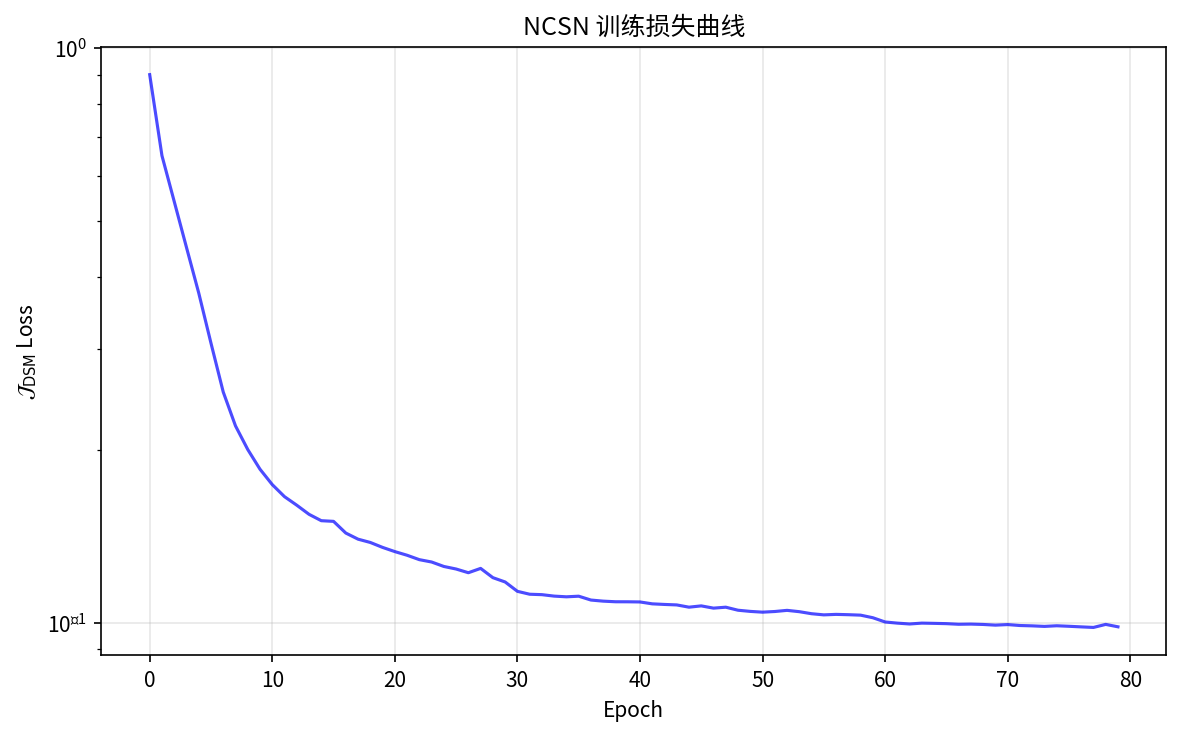
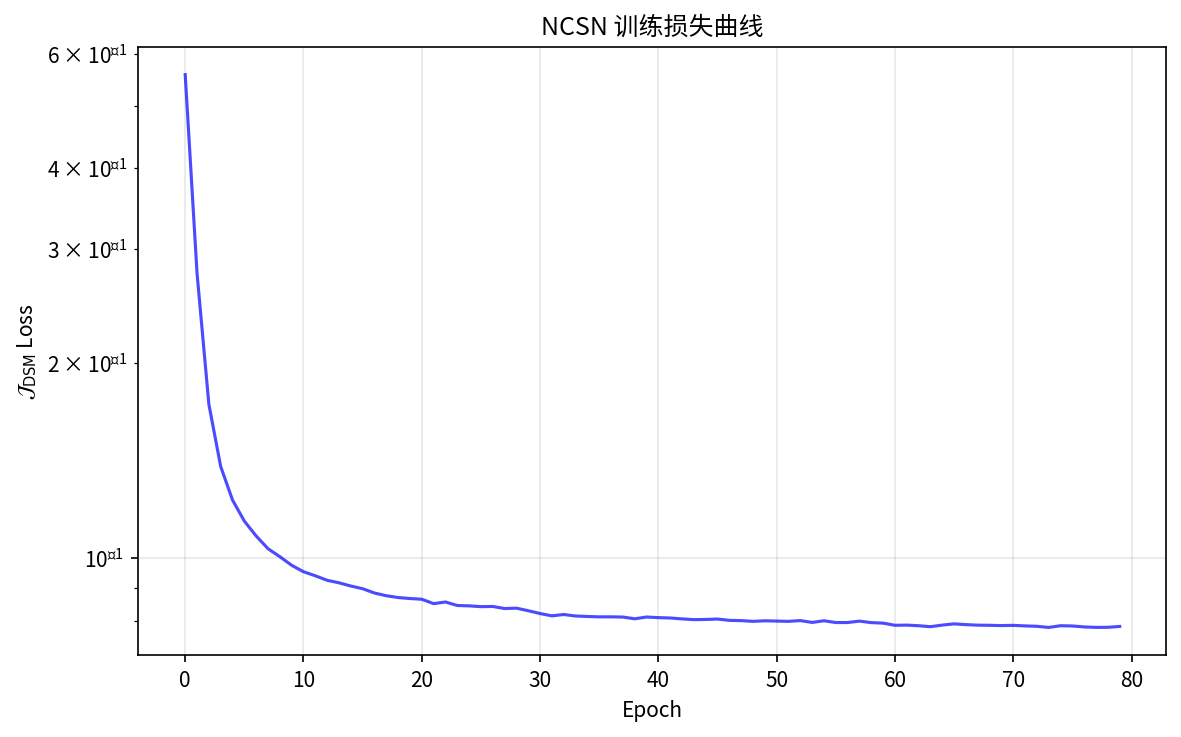
1

diff --git a/第6章 得分匹配：从去噪中学习得分/第六章配套实现/6.7-1/6.7-1.py b/第6章 得分匹配：从去噪中学习得分/第六章配套实现/6.7-1/6.7-1.py
@@ -186,7 +186,7 @@ CHECKPOINT_PATH = os.path.join(SAVE_DIR, 'ncsn_mnist_checkpoint.pth')
 # ============================================================
 # 噪声调度: 几何级数
 # ============================================================
-L = 6  # 简化: 减少噪声水平数量以加快训练
+L = 10  # 噪声水平数量
 sigma_min = 0.01
 sigma_max = 1.0
 sigmas = torch.tensor([sigma_min * (sigma_max / sigma_min) ** (i / (L - 1))
@@ -222,7 +222,7 @@ class ConditionalBatchNorm2d(torch.nn.Module):
 
 
 class NCSN_MNIST(torch.nn.Module):
-    """NCSN得分网络 (MNIST, UNet风格 + 条件批归一化)
+    """NCSN得分网络 (MNIST, UNet风格 + 条件批归一化 + skip connection)
 
     输入: 含噪图像 x (B,1,28,28) + 噪声水平索引 sigma_idx (B,)
     输出: 得分估计 s_θ(x, σ) (B,1,28,28)
@@ -245,14 +245,15 @@ class NCSN_MNIST(torch.nn.Module):
             torch.nn.Conv2d(base_ch * 2, base_ch * 2, 3, padding=1),
             ConditionalBatchNorm2d(base_ch * 2, num_sigmas),
             torch.nn.SiLU())
+        # decoder 输入通道包含 skip connection 的特征
         self.dec1 = torch.nn.Sequential(
             torch.nn.Upsample(scale_factor=2, mode='bilinear', align_corners=False),
-            torch.nn.Conv2d(base_ch * 2, base_ch * 2, 3, padding=1),
+            torch.nn.Conv2d(base_ch * 4, base_ch * 2, 3, padding=1),
             ConditionalBatchNorm2d(base_ch * 2, num_sigmas),
             torch.nn.SiLU())
         self.dec2 = torch.nn.Sequential(
             torch.nn.Upsample(scale_factor=2, mode='bilinear', align_corners=False),
-            torch.nn.Conv2d(base_ch * 2, base_ch, 3, padding=1),
+            torch.nn.Conv2d(base_ch * 3, base_ch, 3, padding=1),  # base_ch*2 + base_ch = base_ch*3
             ConditionalBatchNorm2d(base_ch, num_sigmas),
             torch.nn.SiLU())
         self.out_conv = torch.nn.Conv2d(base_ch, 1, 3, padding=1)
@@ -271,10 +272,12 @@ class NCSN_MNIST(torch.nn.Module):
         b = self.bottleneck[1](b, sigma_idx)
         b = self.bottleneck[2](b)       # (B, base_ch*2, 7, 7)
         d1 = self.dec1[0](b)            # Upsample: 7->14
+        d1 = torch.cat([d1, e2], dim=1)  # skip connection: (B, base_ch*4, 14, 14)
         d1 = self.dec1[1](d1)           # Conv2d
         d1 = self.dec1[2](d1, sigma_idx)  # ConditionalBatchNorm2d
         d1 = self.dec1[3](d1)           # SiLU  -> (B, base_ch*2, 14, 14)
         d2 = self.dec2[0](d1)           # Upsample: 14->28
+        d2 = torch.cat([d2, e1], dim=1)  # skip connection: (B, base_ch*4, 28, 28)
         d2 = self.dec2[1](d2)           # Conv2d
         d2 = self.dec2[2](d2, sigma_idx)  # ConditionalBatchNorm2d
         d2 = self.dec2[3](d2)           # SiLU  -> (B, base_ch, 28, 28)
@@ -303,9 +306,9 @@ train_dataset = datasets.MNIST(root=os.path.join(SAVE_DIR, 'data'), train=True,
 train_loader = DataLoader(train_dataset, batch_size=128, shuffle=True, num_workers=0)
 
 # 初始化模型
-model = NCSN_MNIST(num_sigmas=L, base_ch=32).to(device)
+model = NCSN_MNIST(num_sigmas=L, base_ch=64).to(device)
 optimizer = torch.optim.Adam(model.parameters(), lr=1e-3)
-scheduler = torch.optim.lr_scheduler.StepLR(optimizer, step_size=15, gamma=0.5)
+scheduler = torch.optim.lr_scheduler.StepLR(optimizer, step_size=30, gamma=0.5)
 
 # Checkpoint加载逻辑
 start_epoch = 0
@@ -359,7 +362,7 @@ if os.path.exists(CHECKPOINT_PATH):
 
 # 训练循环
 if not is_final:
-    num_epochs = 30  # 简化: 减少训练轮数以加快实验
+    num_epochs = 200  # 训练轮数 (NCSN论文中训练数百轮, 80轮通常不够)
     # 快速验证模式: 设置环境变量 QUICK_TEST=1 可仅训练3轮
     import os as _os
     if _os.environ.get('QUICK_TEST', '') == '1':
@@ -391,10 +394,10 @@ if not is_final:
                 z = torch.randn_like(x_batch)
                 x_noisy = x_batch + sigma_i * z
 
-                # DSM目标: σ² · ||s_θ(x̃, σ) + z/σ||²
+                # DSM目标: ||σ · s_θ(x̃, σ) + z||²
+                # 等价于 σ² · ||s_θ(x̃, σ) + z/σ||², 但数值更稳定
                 pred = model(x_noisy, sigma_idx)
-                target = -z / sigma_i
-                loss = torch.mean((pred - target) ** 2 * sigma_i ** 2)
+                loss = torch.mean((sigma_i * pred + z) ** 2)
 
                 optimizer.zero_grad()
                 loss.backward()
@@ -421,13 +424,31 @@ if not is_final:
                     'is_final': False
                 }, CHECKPOINT_PATH)
 
+                # 每50轮做一次中间采样, 监控生成质量
+                if (epoch + 1) % 50 == 0:
+                    print(f"  [中间采样] Epoch {epoch+1}, 生成样本中...")
+                    model.eval()
+                    mid_samples = annealed_langevin_sample(model, sigmas_dev, n_samples=8, T=50, eps=2e-5)
+                    fig_mid, axes_mid = plt.subplots(2, 4, figsize=(6, 3))
+                    for k in range(8):
+                        r, c = k // 4, k % 4
+                        axes_mid[r, c].imshow(mid_samples[k, 0].cpu().numpy(), cmap='gray')
+                        axes_mid[r, c].axis('off')
+                    plt.suptitle(f'中间采样 Epoch {epoch+1}')
+                    plt.tight_layout()
+                    mid_path = os.path.join(SAVE_DIR, f'中间采样_epoch{epoch+1:03d}.png')
+                    plt.savefig(mid_path, dpi=150, bbox_inches='tight')
+                    plt.close()
+                    print(f"  [中间采样] 已保存: {mid_path}")
+                    model.train()  # 恢复训练模式
+
         t_elapsed = time.time() - t_start
         print(f"\n训练完成, 最终损失: {train_losses[-1]:.6f}, 耗时: {t_elapsed:.1f} 秒")
 
     # 保存最终checkpoint
     if train_losses:
         torch.save({
-            'epoch': start_epoch - 1 if start_epoch >= num_epochs else num_epochs - 1,
+            'epoch': num_epochs - 1,
             'model_state_dict': model.state_dict(),
             'optimizer_state_dict': optimizer.state_dict(),
             'scheduler_state_dict': scheduler.state_dict(),
@@ -436,6 +457,9 @@ if not is_final:
             'is_final': True
         }, CHECKPOINT_PATH)
         print(f"✓ 训练完成, 模型已保存: {CHECKPOINT_PATH}")
+    else:
+        print(f"⚠ 警告: train_losses 为空, 未保存最终 checkpoint (可能 start_epoch >= num_epochs 且无历史训练记录)")
+
 else:
     print(f"\n使用已训练完成的 NCSN 模型, 跳过训练过程")
 
@@ -479,13 +503,18 @@ def annealed_langevin_sample(model, sigmas, n_samples=16, T=100, eps=2e-5):
     返回:
         生成的图像张量 (n_samples, 1, 28, 28)
     """
+    # NCSN 采样时使用 eval 模式: 使用 running statistics 而非 batch statistics,
+    # 避免小 batch (n_samples=16) 下 BatchNorm 统计量噪声过大导致采样不稳定
     model.eval()
     x = torch.randn(n_samples, 1, 28, 28, device=device) * sigmas[-1]  # 从最大噪声初始化
     L_local = len(sigmas)
 
     with torch.no_grad():
         for i in range(L_local - 1, -1, -1):
-            alpha = eps * (sigmas[i] / sigmas[-1]) ** 2
+            # 步长 α_i = ε · σ_i² / σ_min²  (NCSN论文公式, 分母为最小σ)
+            # 注意: sigmas[0] 是最小σ(0.01), sigmas[-1] 是最大σ(1.0)
+            # 此处必须除以最小σ, 否则步长会偏小 (σ_max/σ_min)²=10⁴ 倍, 样本无法收敛
+            alpha = eps * (sigmas[i] / sigmas[0]) ** 2
             alpha = torch.clamp(alpha, min=0)  # 数值保护
             sigma_idx = torch.full((n_samples,), i, dtype=torch.long, device=device)
             for t in range(T):
@@ -496,18 +525,19 @@ def annealed_langevin_sample(model, sigmas, n_samples=16, T=100, eps=2e-5):
     return torch.clamp(x, 0, 1)
 
 
-n_samples = 9  # 简化: 减少生成样本数
-# 退火Langevin采样超参数: 简化版 T=50
-print(f"\n运行退火Langevin采样 (n_samples={n_samples}, T=50, ε=2e-5)...")
+n_samples = 16  # 生成样本数
+# 退火Langevin采样超参数: 参考 NCSN 论文 (Song & Ermon, 2019)
+# eps=2e-5, T=100 在论文中效果最佳
+print(f"\n运行退火Langevin采样 (n_samples={n_samples}, T=100, ε=2e-5)...")
 t_start = time.time()
-samples = annealed_langevin_sample(model, sigmas_dev, n_samples=n_samples, T=50, eps=2e-5)
+samples = annealed_langevin_sample(model, sigmas_dev, n_samples=n_samples, T=100, eps=2e-5)
 t_elapsed = time.time() - t_start
 print(f"采样完成, 耗时: {t_elapsed:.1f} 秒")
 
 # 可视化生成样本
-fig, axes = plt.subplots(3, 3, figsize=(6, 6))
+fig, axes = plt.subplots(4, 4, figsize=(6, 6))
 for i in range(n_samples):
-    row, col = i // 3, i % 3
+    row, col = i // 4, i % 4
     axes[row, col].imshow(samples[i, 0].cpu().numpy(), cmap='gray')
     axes[row, col].axis('off')
 plt.suptitle('步骤2: 退火Langevin生成样本')
@@ -528,25 +558,30 @@ print("  大噪声阶段: 图像从纯噪声中出现大致的亮暗结构")
 print("  中噪声阶段: 主要形状和纹理逐渐清晰")
 print("  小噪声阶段: 细节精细化, 最终得到高质量图像")
 
-model.eval()
-x_traj = torch.randn(1, 1, 28, 28, device=device) * sigmas_dev[-1]  # 从最大噪声初始化
-trajectory = [x_traj[0, 0].cpu().numpy()]
+model.eval()  # 轨迹可视化也使用 eval 模式, 与 annealed_langevin_sample 保持一致
+# 注意: 使用 batch=16 进行轨迹采样, 只取第一条轨迹可视化
+# 原因: 单样本(batch=1)过 BatchNorm2d 时统计量噪声极大,
+#       使用较大 batch 可获得更稳定的 BatchNorm 统计量
+n_traj_batch = 16
+x_traj = torch.randn(n_traj_batch, 1, 28, 28, device=device) * sigmas_dev[-1]
+trajectory = [x_traj[0, 0].cpu().numpy()]  # 只记录第一条轨迹
 
 # 记录关键噪声水平处的图像（动态生成）
-n_checkpoints = min(5, L)  # 简化: 减少checkpoint数量
+n_checkpoints = min(6, L)  # 最多6个checkpoint
 checkpoints = [int(i) for i in np.linspace(L-1, 0, n_checkpoints).astype(int)]
 cp_idx = 0
 with torch.no_grad():
     for i in range(L - 1, -1, -1):
-        alpha = 2e-5 * (sigmas_dev[i] / sigmas_dev[-1]) ** 2
-        alpha = torch.clamp(alpha, min=0)  # 数值保护
-        sigma_idx = torch.full((1,), i, dtype=torch.long, device=device)
-        for t in range(50):  # 简化: 减少每级步数
+        # 步长 α_i = ε · σ_i² / σ_min²  (与 annealed_langevin_sample 保持一致)
+        alpha = 2e-5 * (sigmas_dev[i] / sigmas_dev[0]) ** 2
+        alpha = torch.clamp(alpha, min=0)  # 数值保护（防御性编程）
+        sigma_idx = torch.full((n_traj_batch,), i, dtype=torch.long, device=device)
+        for t in range(100):
             score = model(x_traj, sigma_idx)
             z = torch.randn_like(x_traj)
             x_traj = x_traj + alpha / 2 * score + torch.sqrt(alpha) * z
         if cp_idx < len(checkpoints) and i == checkpoints[cp_idx]:
-            trajectory.append(torch.clamp(x_traj, 0, 1)[0, 0].cpu().numpy())
+            trajectory.append(torch.clamp(x_traj, 0, 1)[0, 0].cpu().numpy())  # 只取第一条
             cp_idx += 1
 
 # 轨迹可视化（动态生成标签）

diff --git a/第6章 得分匹配：从去噪中学习得分/第六章配套实现/6.7-2/6.7-2.py b/第6章 得分匹配：从去噪中学习得分/第六章配套实现/6.7-2/6.7-2.py
@@ -672,6 +672,7 @@ if HAS_MODEL:
     plt.savefig(os.path.join(SAVE_DIR, '步骤2_PnPULA收敛曲线.png'), dpi=150, bbox_inches='tight')
     plt.close()
     print(f"图表已保存: 步骤2_PnPULA收敛曲线.png")
+    print("[备注] 教学简化参数 (500步), 链尚未收敛; 实际PnP-ULA需数千~上万步迭代")
 
 
 # ============================================================
